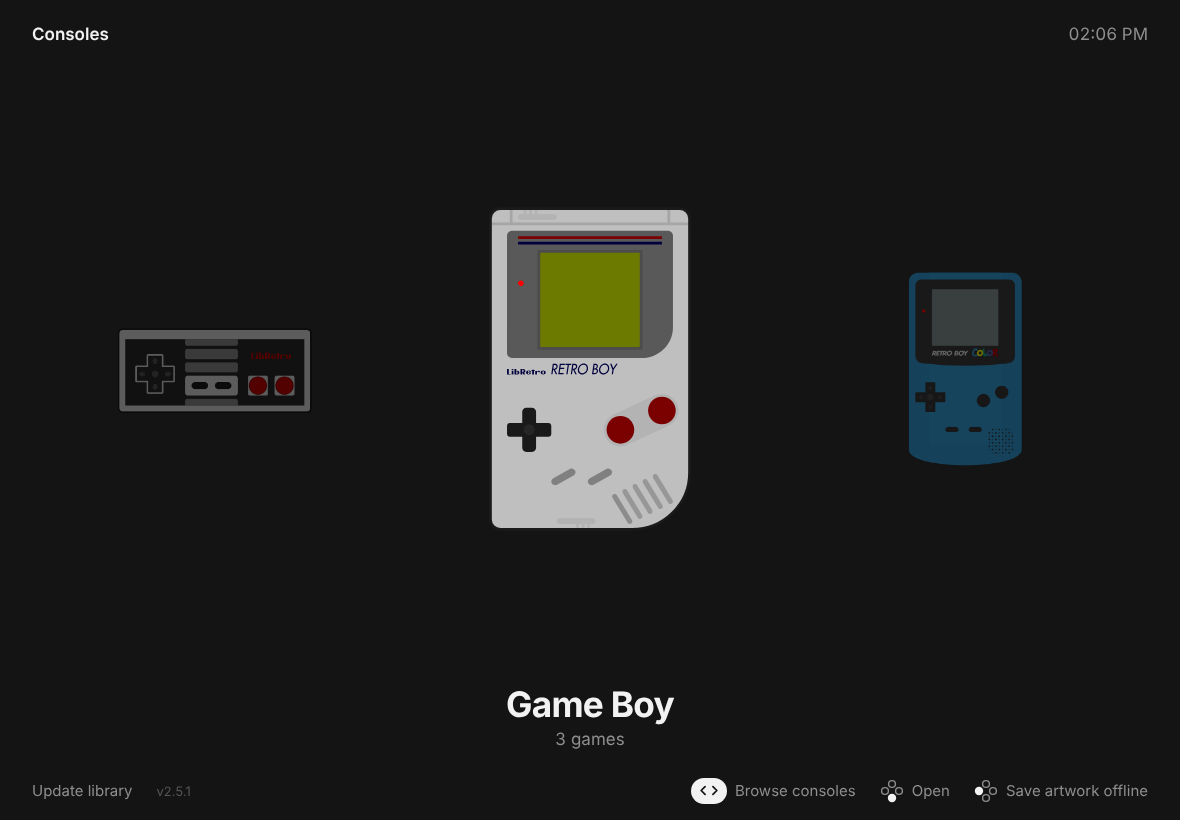
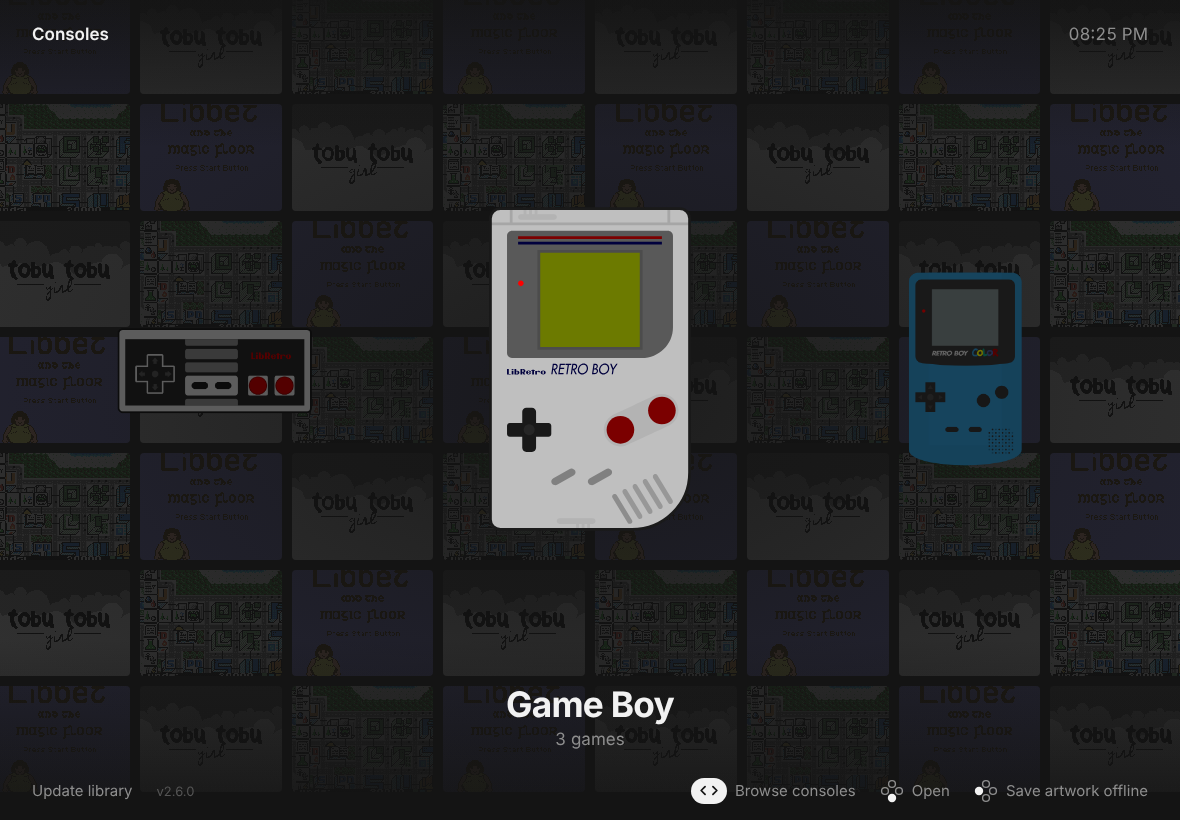
Favourites with filter, screenshot wall behind consoles, cover the home-indicator strip in standalone mode
Claude-Session: https://claude.ai/code/session_014DWH1fwaAZCK4N4Do8K9ck

diff --git a/index.html b/index.html
@@ -9,7 +9,7 @@
 <meta name="apple-mobile-web-app-status-bar-style" content="black-translucent">
 <meta name="apple-mobile-web-app-title" content="Arcade Shelf">
 <meta name="theme-color" content="#141414">
-<meta name="app-version" content="2.5.1">
+<meta name="app-version" content="2.6.0">
 <link rel="apple-touch-icon" href="img/icon.png">
 <link rel="icon" href="img/icon.png">
 <style>
@@ -31,6 +31,19 @@ img{-webkit-user-drag:none}
 #bg{position:fixed;inset:0;z-index:0;pointer-events:none}
 #bg div{position:absolute;inset:0;background-size:cover;background-position:center;image-rendering:pixelated;opacity:0;transition:opacity .5s ease}
 #bg div.on{opacity:.06}
+/* consoles: a faint wall of in-game screenshots from the focused console's library */
+#bg .wall{inset:-12px;background:none;display:grid;grid-template-columns:repeat(var(--wcols),1fr);gap:10px;align-content:start;transition:opacity .7s ease}
+#bg .wall img{width:100%;aspect-ratio:4/3;object-fit:cover;image-rendering:pixelated;border-radius:4px;display:block}
+#bg .wall.on{opacity:.13}
+body:not(.onconsoles) #bg .wall.on{opacity:0}
+#bg .veil{inset:0;opacity:1;background:radial-gradient(ellipse 60% 55% at 50% 48%,rgba(20,20,20,.75),rgba(20,20,20,.25) 70%,rgba(20,20,20,.1)),
+  linear-gradient(180deg,rgba(20,20,20,.85),transparent 18%,transparent 78%,rgba(20,20,20,.9))}
+body:not(.onconsoles) #bg .veil{display:none}
+/* Home Screen app: cover the whole screen, including the strip under the home indicator */
+@media (display-mode:standalone){
+  html,body,body.app{min-height:100vh;min-height:100lvh}
+  body.app,#bg,.screen{bottom:auto;height:100vh;height:100lvh}
+}
 
 .screen{position:fixed;inset:0;z-index:1;display:grid;grid-template-rows:auto 1fr auto}
 
@@ -65,6 +78,20 @@ img{-webkit-user-drag:none}
 .caption{text-align:center;padding:0 var(--sr) 18px var(--sl);min-height:84px}
 .caption h2{font-size:clamp(24px,3vh + .9vw,36px);font-weight:700;letter-spacing:-.02em;margin:0 0 4px;white-space:nowrap;overflow:hidden;text-overflow:ellipsis}
 .caption p{margin:0;color:var(--muted);font-size:17px;font-variant-numeric:tabular-nums}
+.caption h2 .star{display:inline-grid;place-items:center;width:1.1em;height:1.1em;margin-left:.3em;vertical-align:-.12em;border-radius:50%}
+.star svg,.toggle svg,.favbadge svg,.bigstar svg{fill:none;stroke:currentColor;stroke-width:1.8}
+.caption h2 .star svg{width:.72em;height:.72em;color:var(--muted)}
+.caption h2 .star.on svg,.toggle.on svg{fill:#f5c84c;stroke:#f5c84c;color:#f5c84c}
+.toggle{display:flex;align-items:center;gap:6px;font-size:15px;font-weight:500;color:var(--muted);padding:6px 12px 6px 10px;border-radius:17px;background:rgba(255,255,255,.07)}
+.toggle svg{width:16px;height:16px}
+.toggle.on{color:var(--fg);background:rgba(245,200,76,.16)}
+.cf .favbadge{display:none;position:absolute;top:6px;right:6px;width:26px;height:26px;border-radius:13px;background:rgba(0,0,0,.6);place-items:center;z-index:1}
+.cf.fav .favbadge{display:grid}
+.cf .favbadge svg{width:15px;height:15px;fill:#f5c84c;stroke:#f5c84c}
+.nofav{display:grid;place-items:center;text-align:center;padding:0 var(--sr) 0 var(--sl)}
+.nofav h2{font-size:28px;font-weight:700;letter-spacing:-.02em;margin:10px 0 8px}
+.nofav p{color:var(--muted);font-size:17px;margin:0 0 22px}
+.bigstar svg{width:56px;height:56px;color:#555}
 .letter{position:absolute;left:50%;top:42%;transform:translate(-50%,-50%);width:120px;height:120px;border-radius:20px;background:rgba(20,20,20,.94);
   border:1px solid #333;display:grid;place-items:center;font-size:64px;font-weight:700;opacity:0;transition:opacity .2s ease;pointer-events:none;z-index:2000}
 .letter.on{opacity:1;transition:none}
@@ -73,6 +100,7 @@ img{-webkit-user-drag:none}
 .bottom{display:flex;align-items:center;gap:24px;padding:8px var(--sr) calc(14px + env(safe-area-inset-bottom,0px)) var(--sl);
   color:var(--muted);font-size:15px;min-height:50px}
 .bottom .h{display:flex;align-items:center;gap:8px;white-space:nowrap}
+@media (max-width:960px){.bottom{gap:14px;font-size:13px}.bottom .h{gap:6px}}
 .g{display:inline-grid;place-items:center;min-width:26px;height:26px;padding:0 7px;border-radius:13px;background:var(--fg);color:var(--bg);font-size:13px;font-weight:700;line-height:1}
 .g.sq{border-radius:6px}
 .g svg{width:14px;height:14px}
@@ -107,7 +135,7 @@ img{-webkit-user-drag:none}
 </style>
 </head>
 <body>
-<div id="bg"><div id="snapA"></div><div id="snapB"></div></div>
+<div id="bg"><div class="wall" id="wallA"></div><div class="wall" id="wallB"></div><div class="veil"></div><div id="snapA"></div><div id="snapB"></div></div>
 <div id="root"></div>
 <input id="lpl" type="file" multiple hidden>
 <div class="launch" id="launch"><div><p>Starting</p><h2 id="launchTitle"></h2></div></div>
@@ -115,7 +143,7 @@ img{-webkit-user-drag:none}
 
 <script>
 /* Bump on every change (tools/bump-version.sh does it). Open apps notice and reload themselves. */
-const APP_VERSION = "2.5.1";
+const APP_VERSION = "2.6.0";
 const KEY = "arcade-shelf-library-v2", UIKEY = "arcade-shelf-ui-v1";
 
 /* libretro playlist name -> display name, console photo, box art shape (width / height) */
@@ -192,7 +220,8 @@ function glyph(btn){
       k===pos?`<circle cx="${x}" cy="${y}" r="4.2" fill="currentColor"/>`:`<circle cx="${x}" cy="${y}" r="3.4" fill="none" stroke="currentColor" stroke-width="1.4" opacity=".55"/>`).join("")}</svg></span>`; };
   if(btn==="ok") return face("south");
   if(btn==="back") return face("east");
-  if(btn==="save") return face("west");
+  if(btn==="save"||btn==="filter") return face("west");
+  if(btn==="fav") return face("north");
   if(btn==="leftright") return `<span class="g wide"><svg viewBox="0 0 28 16"><path d="M9 3 4 8l5 5M19 3l5 5-5 5" fill="none" stroke="currentColor" stroke-width="2.2" stroke-linecap="round" stroke-linejoin="round"/></svg></span>`;
   if(btn==="LR") return `<span class="g sq">L</span><span class="g sq">R</span>`;
   return "";
@@ -351,7 +380,7 @@ class Flow{
 
 /* --- consoles --- */
 function buildConsoles(){
-  view="consoles"; setSnap(null);
+  view="consoles"; setSnap(null); document.body.classList.add("onconsoles");
   els.top.innerHTML = `<h1>Consoles</h1><div class="spacer"></div>${clockHTML()}`;
   els.stage.innerHTML = `<section class="consoles"><div id="flow"></div><div class="caption" id="caption"></div></section>`;
   els.caption=$("caption");
@@ -359,8 +388,9 @@ function buildConsoles(){
     make:i=>{ const el=document.createElement("div"), s=library[i], p=photo(info(s.system).img);
       el.innerHTML=`<div class="cover">${p?`<img src="${p}" alt="" draggable="false">`:`<div class="noimg">${esc(info(s.system).short)}</div>`}</div>`; return el; },
     onFocus:i=>{ ci=i; const s=sys();
-      els.caption.innerHTML=`<h2>${esc(info(s.system).short)}</h2><p>${s.games.length} ${s.games.length===1?"game":"games"}</p>`;
-      ui.sys=s.system; saveUISoon(); },
+      const nf=favCount(s);
+      els.caption.innerHTML=`<h2>${esc(info(s.system).short)}</h2><p>${s.games.length} ${s.games.length===1?"game":"games"}${nf?`  ·  ${nf} favourite${nf===1?"":"s"}`:""}</p>`;
+      ui.sys=s.system; saveUISoon(); setWallSoon(s); },
     onTap:()=>input("ok")});
   bottomBar([["leftright","Browse consoles"],["ok","Open"],["save","Save artwork offline"]], true);
   sizeConsoles();
@@ -371,23 +401,51 @@ function sizeConsoles(){
   f.layout({w:s,h:s,top:Math.round((H-s)/2)});
 }
 
+/* --- favourites ---
+   Kept by system + game name, so they survive re-importing the playlists. */
+const FAVKEY="arcade-shelf-favs-v1";
+const favs=new Set((()=>{ try{ return JSON.parse(localStorage.getItem(FAVKEY))||[] }catch(e){ return [] } })());
+const favId=(system,label)=>system+"\u0001"+label;
+const isFav=(system,label)=>favs.has(favId(system,label));
+function saveFavs(){ try{ localStorage.setItem(FAVKEY, JSON.stringify([...favs])) }catch(e){} }
+function favCount(s){ let n=0; for(const g of s.games) if(isFav(s.system,g.label)) n++; return n; }
+const STAR=`<svg viewBox="0 0 24 24"><path d="M12 2.8l2.8 5.9 6.4.8-4.7 4.4 1.2 6.4L12 17.2l-5.7 3.1 1.2-6.4-4.7-4.4 6.4-.8z" stroke-linejoin="round"/></svg>`;
+
 /* --- games --- */
 function buildGames(){
-  view="games";
-  const s=sys(), i=info(s.system);
+  view="games"; document.body.classList.remove("onconsoles");
+  const s=sys(), i=info(s.system), favOnly=!!ui.favOnly;
+  /* vis: the games shown, as indexes into s.games (all of them, or just the favourites) */
+  const vis=[]; s.games.forEach((g,k)=>{ if(!favOnly || isFav(s.system,g.label)) vis.push(k); });
+  els.vis=vis;
   gi = Math.min(ui.pos[s.system]||0, s.games.length-1);
-  s.keys = s.games.map(g=>letterOf(g.label));
+  let start=vis.findIndex(k=>k>=gi); if(start<0) start=vis.length-1;
+  s.keys = vis.map(k=>letterOf(s.games[k].label));
   els.top.innerHTML = `<button class="back" id="back" aria-label="Back"><svg viewBox="0 0 24 24"><path d="M15 5l-7 7 7 7" fill="none" stroke="currentColor" stroke-width="2.4" stroke-linecap="round" stroke-linejoin="round"/></svg></button>
-    <h1>${esc(i.short)}<span class="n">${s.games.length}</span></h1><div class="spacer"></div>${clockHTML()}`;
+    <h1>${esc(i.short)}<span class="n">${vis.length}${favOnly?" favourite"+(vis.length===1?"":"s"):""}</span></h1><div class="spacer"></div>
+    <button class="toggle${favOnly?" on":""}" id="favfilter" aria-pressed="${favOnly}">${STAR}Favourites</button>${clockHTML()}`;
   $("back").onclick=()=>input("back");
+  $("favfilter").onclick=()=>input("filter");
+  const hints=[["leftright","Browse"],["LR","Letter"],["fav","Favourite"],["filter",favOnly?"Show all":"Favourites only"],["ok","Play"],["back","Back"]];
+  if(!vis.length){
+    els.flow=null; setSnap(null);
+    els.stage.innerHTML = `<section class="games nofav"><div class="none"><div class="bigstar">${STAR}</div><h2>No favourites yet</h2>
+      <p>Mark a game with the star next to its title${padKind?" or the top face button":""}, then come back here.</p>
+      <button class="primary" id="showall">Show all games</button></div></section>`;
+    $("showall").onclick=()=>input("filter");
+    bottomBar([["filter","Show all"],["back","Back"]], false);
+    return;
+  }
   els.stage.innerHTML = `<section class="games"><div id="flow"><div class="letter" id="letter"></div></div>
-      <div class="caption"><h2 id="title"></h2><p id="details"></p></div></section>`;
-  Object.assign(els,{letter:$("letter"),title:$("title"),details:$("details")});
-  els.flow=new Flow($("flow"),{count:s.games.length,start:gi,make:coverEl,onFocus:focusGame,onTap:()=>input("ok")});
-  bottomBar([["leftright","Browse games"],["LR","Jump to letter"],["ok","Play"],["back","Back"]], false);
+      <div class="caption"><h2><span id="title"></span><button class="star" id="star" aria-label="Favourite">${STAR}</button></h2><p id="details"></p></div></section>`;
+  Object.assign(els,{letter:$("letter"),title:$("title"),details:$("details"),star:$("star")});
+  els.star.onclick=()=>input("fav");
+  els.flow=new Flow($("flow"),{count:vis.length,start,make:coverEl,onFocus:focusGame,onTap:()=>input("ok")});
+  bottomBar(hints, false);
   sizeGames();
 }
 function sizeGames(){
+  if(!els.flow) return;
   const f=els.flow, H=f.host.clientHeight, W=f.host.clientWidth, ar=info(sys().system).ar;
   let h=Math.min(H*.66, 420), w=h*ar;
   if(w>W*.34){ w=W*.34; h=w/ar; }
@@ -396,9 +454,10 @@ function sizeGames(){
   f.layout({w,h,top:Math.round((H-h*1.22)/2)});   // leave room for the reflection
 }
 function coverEl(k){
-  const s=sys(), g=s.games[k], [name]=splitTitle(g.label);
+  const s=sys(), g=s.games[els.vis[k]], [name]=splitTitle(g.label);
   const el=document.createElement("div");
-  el.innerHTML=`<div class="cover"></div>`;
+  el.innerHTML=`<div class="cover"></div><div class="favbadge">${STAR}</div>`;
+  el.classList.toggle("fav", isFav(s.system,g.label));
   const cover=el.firstChild, url=thumbURL(s.system,g.label);
   const fb=()=>{ cover.innerHTML=`<div class="fb" style="--fbs:${els.fbs}px">${esc(name)}</div>`; };
   if(failed.has(url)) fb(); else {
@@ -410,13 +469,26 @@ function coverEl(k){
 }
 let snapTimer, letterTimer;
 function focusGame(k){
-  gi=k;
+  gi=els.vis[k];
   const s=sys(), g=s.games[gi], [name,tags]=splitTitle(g.label);
   els.title.textContent=name;
-  els.details.textContent=[tags.join(", "), `${gi+1} of ${s.games.length}`].filter(Boolean).join("  ·  ");
+  els.star.classList.toggle("on", isFav(s.system,g.label));
+  els.details.textContent=[tags.join(", "), `${k+1} of ${els.vis.length}`].filter(Boolean).join("  ·  ");
   clearTimeout(snapTimer);
   snapTimer=setTimeout(()=>setSnap(thumbURL(s.system,g.label,"Named_Snaps")), 250);
   ui.pos[s.system]=gi; saveUISoon();
+}
+function toggleFav(){
+  const s=sys(), g=s.games[gi], id=favId(s.system,g.label), on=!favs.has(id);
+  on ? favs.add(id) : favs.delete(id); saveFavs();
+  if(ui.favOnly && !on){ ui.pos[s.system]=gi; buildGames(); toast("Removed from favourites"); return; }  // it leaves the filtered list
+  els.star.classList.toggle("on", on);
+  const el=els.flow.items.get(els.flow.focus); if(el) el.classList.toggle("fav", on);
+}
+function toggleFilter(){
+  ui.favOnly=!ui.favOnly; saveUI();
+  ui.pos[sys().system]=gi;
+  buildGames();
 }
 let snapFlip=false, snapWant=null;
 function setSnap(url){
@@ -434,19 +506,44 @@ function showLetter(j){
   clearTimeout(letterTimer); letterTimer=setTimeout(()=>els.letter.classList.remove("on"),450);
 }
 
+/* consoles background: a wall of screenshots from that console's games (favourites first).
+   Screenshots are small, come through the artwork cache, and only start once browsing pauses. */
+let wallTimer, wallFlip=false, wallWant=null; const wallCache={};
+function setWallSoon(s){ clearTimeout(wallTimer); wallWant=s.system; wallTimer=setTimeout(()=>setWall(s),350); }
+async function setWall(s){
+  const W=innerWidth, H=innerHeight, cell=W<900?150:190, cols=Math.ceil(W/cell)+1, need=cols*(Math.ceil(H/(cell*.75))+1);
+  let ok=wallCache[s.system];
+  if(!ok){
+    const games=[...s.games].sort((a,b)=>isFav(s.system,b.label)-isFav(s.system,a.label)).slice(0,Math.min(need*2,60));
+    const urls=games.map(g=>thumbURL(s.system,g.label,"Named_Snaps")).filter(u=>!failed.has(u));
+    const res=await Promise.all(urls.map(u=>new Promise(r=>{ const im=new Image(); im.onload=()=>r(u); im.onerror=()=>{ failed.add(u); forgetArt(u); r(null); }; im.src=u; })));
+    ok=wallCache[s.system]=res.filter(Boolean).slice(0,need);
+  }
+  if(wallWant!==s.system) return;
+  const a=$("wallA"), b=$("wallB");
+  if(!ok.length){ a.classList.remove("on"); b.classList.remove("on"); return; }
+  wallFlip=!wallFlip; const show=wallFlip?a:b, hide=wallFlip?b:a;
+  show.style.setProperty("--wcols",cols);
+  show.innerHTML=Array.from({length:need},(_,i)=>`<img src="${ok[i%ok.length]}" alt="">`).join("");
+  show.classList.add("on"); hide.classList.remove("on");
+}
+
 /* ---------- input ---------- */
 let launching=false;
 function input(a){
-  if(launching || !library.length || !els.flow) return;
+  if(launching || !library.length) return;
+  if(view==="games" && (a==="filter"||a==="west")) return toggleFilter();
+  if(view==="games" && !els.flow){ if(a==="back") history.back(); return; }   // empty favourites screen
   const f=els.flow;
   if(a==="left") f.go(-1);
   else if(a==="right") f.go(1);
-  else if(view==="consoles"){ if(a==="save") saveOffline(); else if(a==="ok"){ ci=f.focus; history.pushState({v:"games"},""); buildGames(); } }
+  else if(view==="consoles"){ if(a==="save"||a==="west") saveOffline(); else if(a==="ok"){ ci=f.focus; history.pushState({v:"games"},""); buildGames(); } }
   else {
-    const s=sys(), n=s.games.length, keys=s.keys, cur=Math.round(f.target);
+    const s=sys(), n=els.vis.length, keys=s.keys, cur=Math.round(f.target);
     if(a==="next"||a==="down"){ const k=keys[cur]; let j=cur; while(j<n&&keys[j]===k) j++; if(j<n){ f.setTarget(j); showLetter(j); } }
     else if(a==="prev"||a==="up"){ let j=cur; const k=keys[cur]; if(j>0&&keys[j-1]===k){ while(j>0&&keys[j-1]===k) j--; } else if(j>0){ j--; const k2=keys[j]; while(j>0&&keys[j-1]===k2) j--; } if(j!==cur){ f.setTarget(j); showLetter(j); } }
-    else if(a==="ok"){ gi=f.focus; launch(); }
+    else if(a==="ok"){ gi=els.vis[f.focus]; launch(); }
+    else if(a==="fav"||a==="north") toggleFav();
     else if(a==="back") history.back();
   }
 }
@@ -466,13 +563,13 @@ window.addEventListener("popstate",()=>{
 });
 
 addEventListener("keydown",e=>{
-  const map={ArrowLeft:"left",ArrowRight:"right",ArrowUp:"up",ArrowDown:"down",Enter:"ok"," ":"ok",Escape:"back",Backspace:"back",PageUp:"prev",PageDown:"next"};
+  const map={ArrowLeft:"left",ArrowRight:"right",ArrowUp:"up",ArrowDown:"down",Enter:"ok"," ":"ok",Escape:"back",Backspace:"back",PageUp:"prev",PageDown:"next",f:"fav",v:"filter"};
   const a=map[e.key]; if(!a) return;
   e.preventDefault(); input(a);
 });
 
 /* Gamepad, standard mapping: bottom face button confirms, right face button goes back. */
-const BTN={0:"ok",1:"back",2:"save",4:"prev",5:"next",6:"prev",7:"next",12:"up",13:"down",14:"left",15:"right"};
+const BTN={0:"ok",1:"back",2:"west",3:"north",4:"prev",5:"next",6:"prev",7:"next",12:"up",13:"down",14:"left",15:"right"};
 const REPEATS=new Set(["left","right","up","down","prev","next"]);
 const held={}; let prevPressed={}, ignoreUntilRelease=false;
 function padReset(){ prevPressed={}; for(const k in held) delete held[k]; ignoreUntilRelease=true; }

diff --git a/README.md b/README.md
@@ -21,7 +21,9 @@ Tap **Update library** whenever you add games in RetroArch.
 | Open / play | Bottom face button | Tap the front item |
 | Back | Right face button | ‹ in the top left |
 | Jump to next letter | L / R (or up / down) | |
-| Save artwork offline | Left face button | Button at the bottom |
+| Favourite a game | Top face button | Star next to the title |
+| Show only favourites | Left face button | **Favourites** in the top bar |
+| Save artwork offline | Left face button (on the consoles screen) | Button at the bottom |
 
 ## Come back here when you leave RetroArch
 
